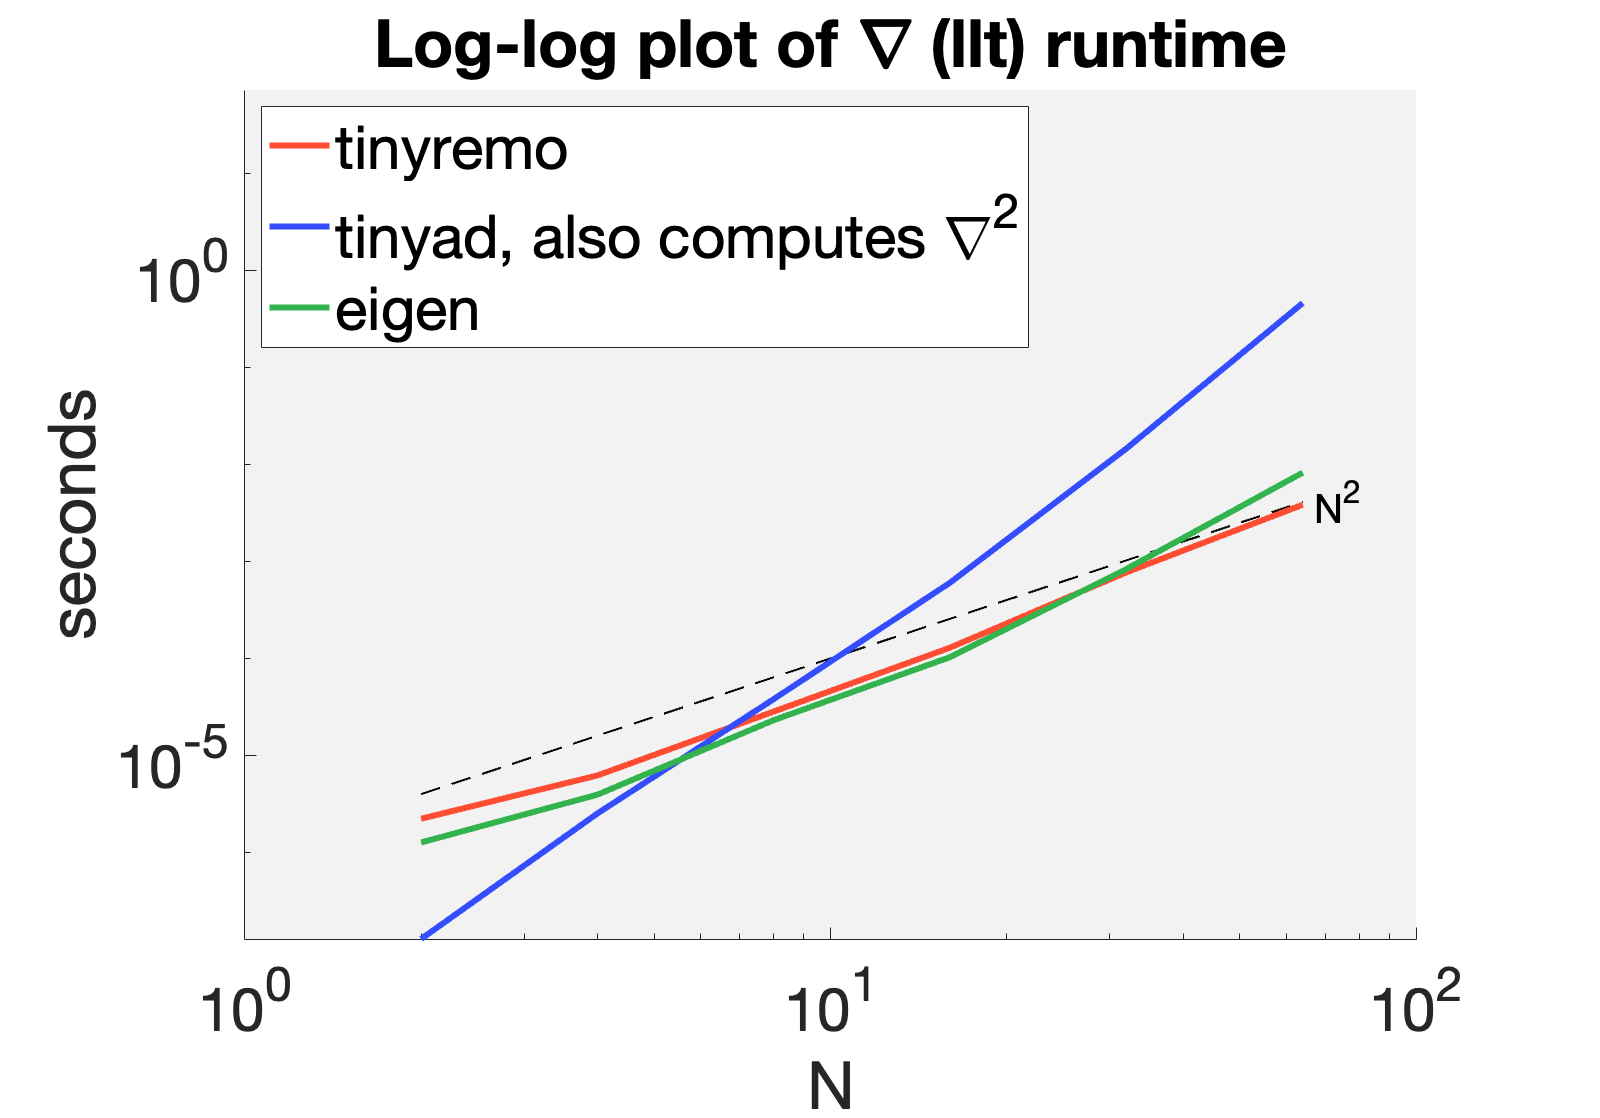
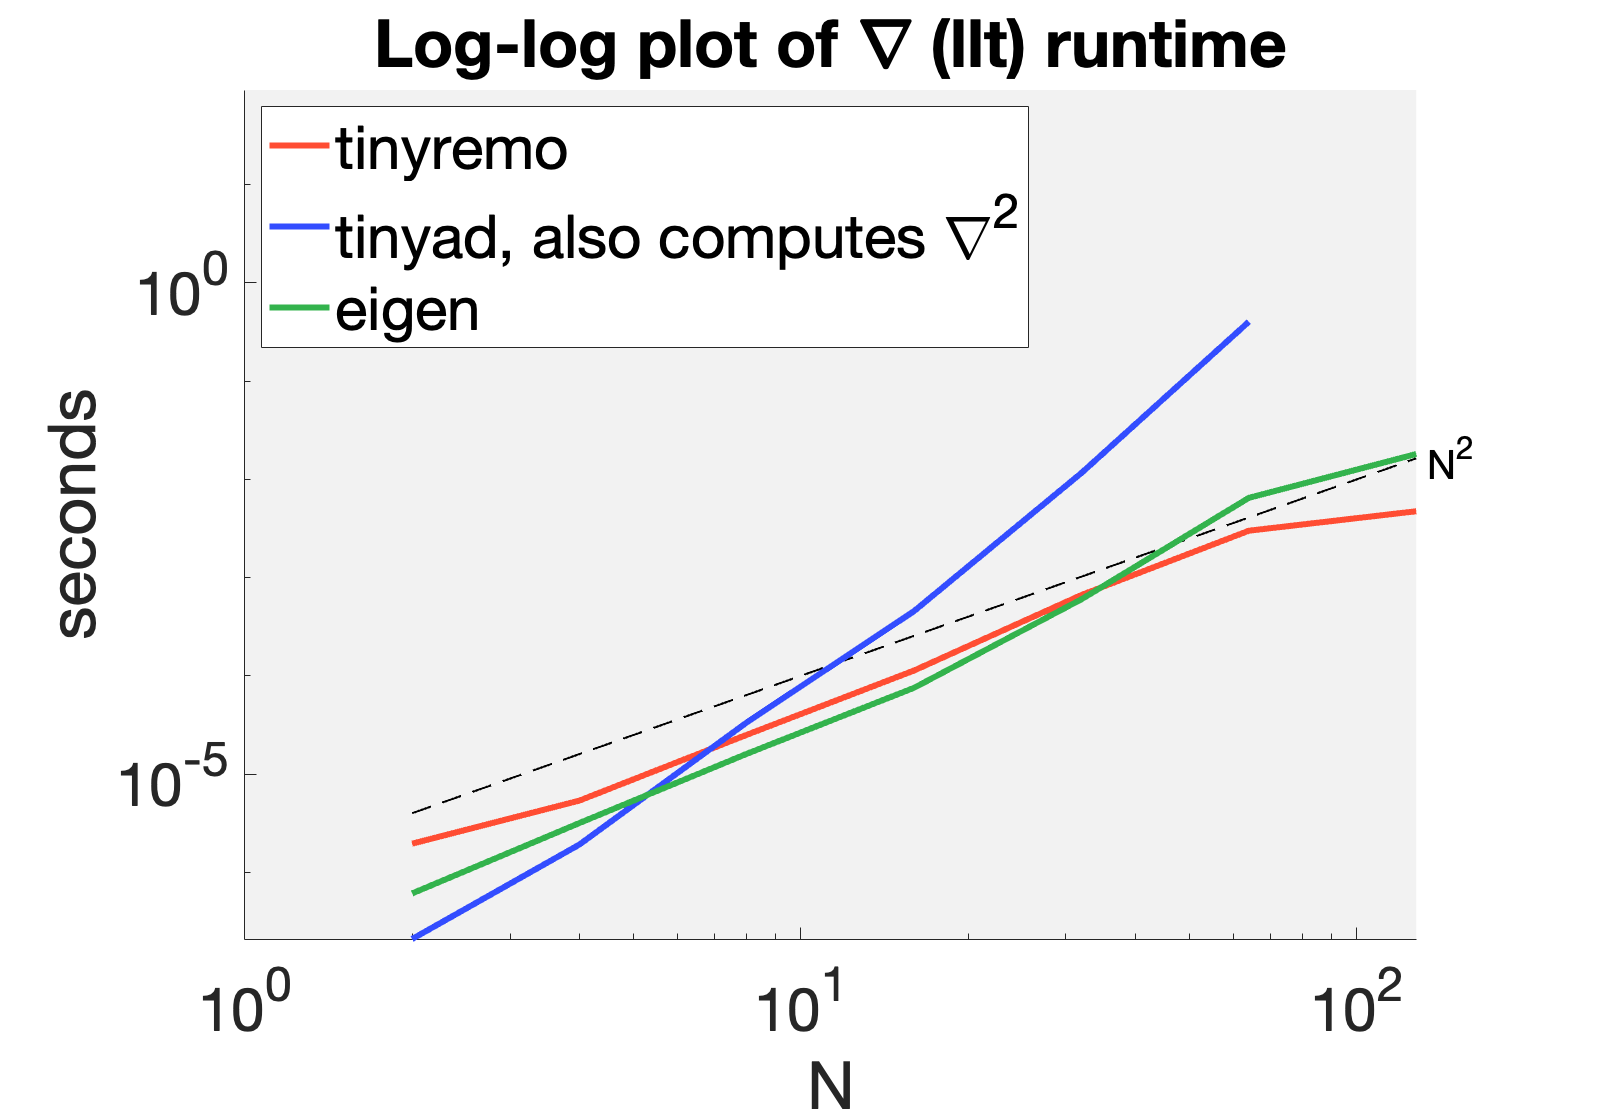
new pngs

diff --git a/gen_plots.m b/gen_plots.m
@@ -1,26 +1,27 @@
-for pass = 1:2
+for pass = 1:3
   switch pass
   case 1
     tit = 'Log-log plot of \nabla (llt) runtime';
     meths = {'eigen','tinyad','tinyremo'};
     D = [
-      2 1.27077e-06 1.28746e-07 2.2316e-06
-      4 3.9506e-06 2.52962e-06 6.22988e-06
-      8 2.31385e-05 3.81207e-05 2.83694e-05
-      16 0.000103152 0.000603151 0.00012917
-      32 0.000834198 0.0145271 0.000771151
-      64 0.00819852 0.458206 0.00383134
+2 6.10352e-07 2.09808e-07 1.9598e-06
+4 3.1805e-06 1.92165e-06 5.38111e-06
+8 1.61099e-05 3.36385e-05 2.51389e-05
+16 7.57289e-05 0.00045768 0.000113571
[phone redacted] 0.011649 0.00066638
[phone redacted] 0.403232 0.00300469
[phone redacted] nan 0.00474239
       ];
   case 2
     tit = 'Log-log plot of \nabla^2 (llt) runtime';
     meths = {'tinyad','tinyremo'};
     D = [
-      2 1.3113e-07 3.86e-06
-      4 1.85966e-06 1.61004e-05
-      8 3.34692e-05 0.00016197
-      16 0.000461631 0.000792902
-      32 0.0120034 0.00541788
-      64 0.428727 0.0336399
+2 1.19209e-07 3.43084e-06
+4 1.69992e-06 1.47009e-05
+8 3.00407e-05 0.000205169
[phone redacted] 0.00067302
[phone redacted] 0.0048641
[phone redacted] 0.0309347
       ];
   case 3
     tit = 'Log-log plot of \nabla^2 (springs) runtime';